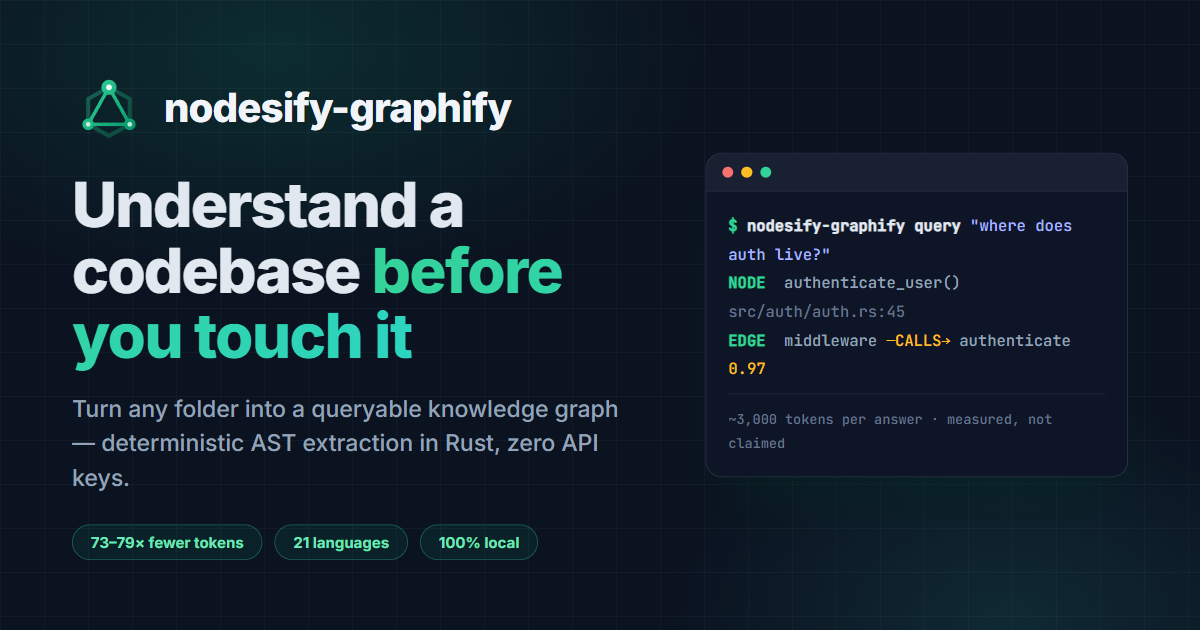
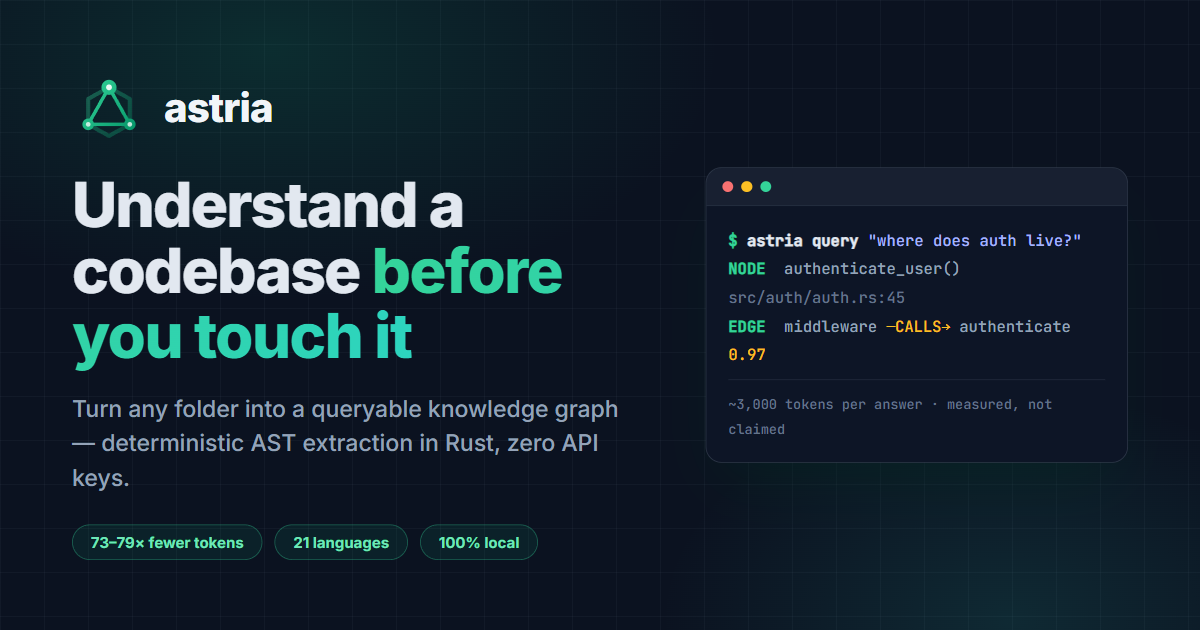
docs(site): regenerate og-image with astria branding
Rebuilt from scripts/og-image.html (1200x630). The template now loads the
logo via a repo-relative path so the generator works offline and before the
new Pages URL exists.

diff --git a/website/scripts/og-image.html b/website/scripts/og-image.html
@@ -54,7 +54,7 @@
   <div class="wrap">
     <div class="left">
       <div class="logoRow">
-        <img src="https://nodesify.github.io/astria/img/logo.svg" alt="">
+        <img src="../static/img/logo.svg" alt="">
         <span class="brand">astria</span>
       </div>
       <h1>Understand a codebase <span class="accent">before you touch it</span></h1>
